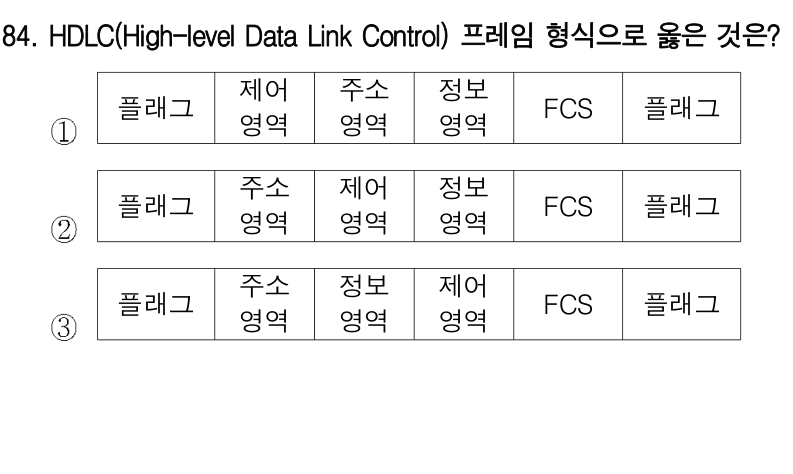
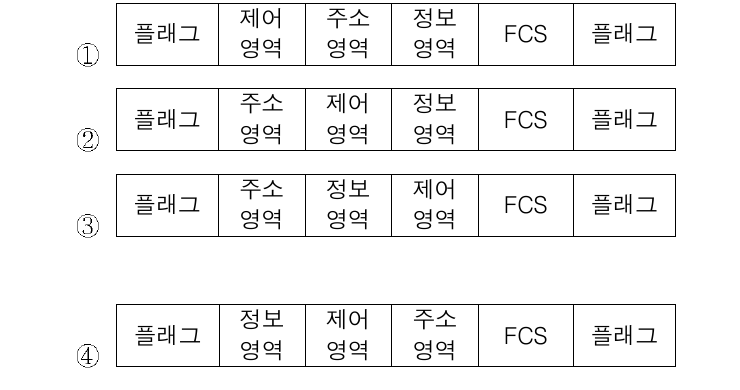
2016-1 원본 정합성 검수 반영

diff --git a/정보처리기사CBT_지침체계/08_운영기록/검수보고_2026-07-26_2016-1_100문항_원본정합성검수.md b/정보처리기사CBT_지침체계/08_운영기록/검수보고_2026-07-26_2016-1_100문항_원본정합성검수.md
@@ -1,0 +1,123 @@
+# 검수보고_2026-07-26_2016-1_100문항_원본정합성검수
+
+## 1. 검수 목적
+
+2단계 원본 데이터 정합성 확보의 두 번째 파일 단위 작업으로 `data/exam_2016-1.json` 100문항을 보유 PDF와 전수 대조했다.
+
+기존 `pdf_compare_score_report.txt`에서 이 회차의 이미지·표 최종 점수는 86.0점으로 2016~2017년 6회차 중 가장 낮았다. 또한 PDF 인쇄번호와 JSON `qnum`이 다르다는 기존 판례가 있어 다음 고위험 단위로 선정했다.
+
+이번 보고서는 `exam_2016-1.json` 한 파일의 검수 완료를 뜻하며, 전체 3,568문항의 2단계 완료를 뜻하지 않는다.
+
+## 2. 직접 원본과 검수 방법
+
+- 직접 원본: `정보처리기사 문제/2016년1회_정보처리기사_필기_기출문제.pdf`
+- 데이터: `data/exam_2016-1.json`
+- 자료: `public/images/2016-1_q*.png`
+
+PDF는 B형이고 JSON은 다른 문제 순서를 사용하므로 같은 번호끼리 비교하지 않았다. 1~7쪽을 200DPI로 렌더하고 Apple Vision OCR 결과와 PDF 텍스트를 보조 자료로 사용한 뒤, `stem` 핵심 문구로 100문항을 일대일 대응시켰다. 원문·보기·공식 정답표·그림·표는 렌더한 PDF 1~8쪽을 직접 확인했다.
+
+## 3. PDF 인쇄번호와 JSON qnum 대응
+
+문장 기반 대응은 100/100 성공했고 PDF 문제번호도 1~100이 한 번씩만 사용됐다.
+
+```text
+JSON  1~20 → PDF 16,3,4,12,10,2,14,5,13,19,15,7,8,1,11,20,17,9,6,18
+JSON 21~40 → PDF 37,35,40,39,31,22,26,21,29,33,25,23,34,32,38,30,36,24,28,27
+JSON 41~60 → PDF 45,43,55,57,42,56,53,47,52,54,51,49,44,58,41,60,59,50,48,46
+JSON 61~80 → PDF 62,74,73,72,64,67,70,66,76,63,80,69,71,75,68,65,61,78,77,79
+JSON 81~100 → PDF 81,98,93,87,83,82,90,96,95,88,84,89,100,94,91,92,99,85,97,86
+```
+
+따라서 예를 들어 JSON Q71의 직접 원본은 PDF 인쇄번호 Q80이고, JSON Q91의 직접 원본은 PDF 인쇄번호 Q84다.
+
+## 4. 발견된 오류
+
+### 4.1 공식 복수정답 누락
+
+PDF 정답표는 인쇄번호 Q80에 `②·④`를 함께 표시한다. 이 문항은 JSON Q71에 대응하지만 기존 `answer`는 `2` 하나뿐이었다.
+
+- 변경 전: `answer: 2`
+- 변경 후: `answer: [2, 4]`
+- 해설: Spiral Model과 Prototype Model이 각각 인정되는 근거와 단일정답 유사 문제 구별법을 반영
+
+문장 대응 후 공식 정답표를 적용한 결과, 이 1건을 고친 뒤 100/100이 일치했다.
+
+### 4.2 풀이 필수 표 누락
+
+JSON Q45는 PDF 인쇄번호 Q42의 First-Fit 문제다. 기존 JSON에는 `영역 1~4` 보기만 있고 문제 풀이에 필요한 영역 크기 `9K·15K·10K·30K`가 없었다.
+
+- HTML `table` 필드로 네 영역의 크기를 복원
+- 해설에 각 영역 값과 영역 2를 처음 선택하는 과정을 반영
+
+### 4.3 잘린 HDLC 보기
+
+JSON Q91의 기존 이미지에는 PDF 인쇄번호 Q84의 보기 ①~③만 있었고, 다음 열에 이어진 보기 ④가 잘려 있었다.
+
+- `public/images/2016-1_q91.png`를 원본 PDF에서 다시 추출
+- 보기 ①~④를 한 이미지에 순서대로 배치
+- JSON 번호와 혼동되는 PDF 인쇄번호 `84.`와 인접 Q85는 제외
+
+### 4.4 원문·보기 전사 오류
+
+총 53문항의 77개 필드를 원본과 맞췄다.
+
+| 필드 | 변경 문항 수 | 대표 사례 |
+|---|---:|---|
+| `stem` | 42 | Q23 `갈이→길이`, Q28 `PLA→PIA`, Q53 `프로세서→프로세스`, Q71 `부석→분석`, Q74 `동적→동작`, Q79 `요민→요인`, Q80 `요구상항→요구사항`, Q89 `FIS→FCS` |
+| `options` | 27 | Q28 `PLA/PAL`, `LPGA/FPGA`; Q59 `INODE LIST→INODE BLOCK`; 중복 글자·띄어쓰기·대소문자 복원 |
+| `answer` | 1 | Q71 `2→[2,4]` |
+| `table` | 1 | Q45 영역 크기 표 추가 |
+| `explanation` | 6 | Q43·45·55·59·71·84의 원문·정답·용어 변경 연동 |
+
+설명 내용을 새 문제로 각색하지 않았고, PDF에서 확인된 원문·보기·정답과 그에 직접 연결되는 해설만 수정했다.
+
+## 5. 이미지·표 연결 결과
+
+| JSON 문항 | PDF 인쇄번호 | 자료 | 결과 |
+|---:|---:|---|---|
+| Q5 | Q10 | 후위 순회 트리 | 일치 |
+| Q20 | Q18 | 트리 차수 그림 | 일치 |
+| Q26 | Q22 | 메모리 IC 그림 | 일치 |
+| Q36 | Q30 | 디코더 회로 | 일치 |
+| Q45 | Q42 | 영역 크기 표 | 누락 복원 |
+| Q51 | Q51 | 고정 분할 표 | 일치 |
+| Q91 | Q84 | HDLC 네 보기 | 보기 ④ 누락 복원 |
+
+이번 추가로 Q45는 `table`만 사용하고 Q91은 `image`만 사용한다. 따라서 승인된 `image`+`table` 복합 자료 4문항 목록에는 변화가 없다.
+
+## 6. 검증 결과
+
+| 검사 | 결과 |
+|---|---|
+| 2016-1 문장 기반 PDF 대응 | 100/100, 일대일 대응 |
+| PDF 공식 정답 | 100/100 일치 |
+| qnum | 100개, 중복 0, 누락 0 |
+| 동일 stem 중복 | 0건 |
+| JSON 파싱·필수 필드·타입 | 전체 34개 파일·3,568문항, 오류 0건 |
+| 정답 배열 | 전체 9건, 범위·중복 오류 0건 |
+| 이미지 경로 | 전체 109건, 결손 0건 |
+| HTML 표 | 전체 60건, 형식 오류 0건 |
+| 복합 자료 승인 목록 | 기존 4건과 정확히 일치 |
+| 보기 셔플 | 3,568문항 × 24순열 = 85,632건, 오류 0건 |
+| JavaScript 문법 | `server/*.js`, `public/js/*.js` 오류 0건 |
+| 로컬 API | 회차 29·유형 5, 2016-1 100문항 로딩 정상 |
+| Q45 표 API | 9K·15K·10K·30K 전달 확인 |
+| Q71 채점 | 2·4는 정답, 1은 오답으로 처리 |
+| Q91 정적 이미지 | PNG 정상, HTTP 200 |
+| 공백·충돌 표식 | `git diff --check` 통과 |
+
+브라우저 실행 환경이 없어 실제 화면 클릭과 시각 회귀 검사는 수행하지 못했다. PDF 렌더, 최종 이미지, API, 채점은 확인했지만 앱 화면에서 Q45 표와 Q91 이미지가 보이는지는 `확인 필요`로 남긴다.
+
+## 7. 판정
+
+- `exam_2016-1.json` 원문·보기·정답·자료 전수 대조: **완료**
+- 공식 정답: **100/100 일치**
+- 중복·누락·다른 회차 혼입: **0건**
+- JSON·API·이미지·셔플 검사: **통과**
+- 브라우저 실제 화면 검사: **확인 필요**
+- 전체 2단계: **진행 중**
+- 커밋·푸시·배포: **미수행**
+
+## 8. 다음 검증 단위
+
+다음 파일은 `exam_2016-3.json`을 우선 제안한다. 기존 비교 보고서에 PDF 메모리 블록의 정확한 K 값을 다시 확인해야 하는 잔여 권고가 있고, 최종 점수도 92.4점으로 낮은 편이므로 문제 순서 보정, 원문·정답, 풀이 필수 자료를 같은 방식으로 전수 대조한다.

diff --git a/정보처리기사CBT_지침체계/08_운영기록/changelog.md b/정보처리기사CBT_지침체계/08_운영기록/changelog.md
@@ -93,3 +93,4 @@
 | 2026-07-26 | 프로덕션 배포 | Vercel 프로덕션 배포 완료, 버전 `26-07-26-1`, 운영 별칭 `https://jeongbo-cbt.vercel.app`과 `/version.json`·API 응답·오류 로그 확인 | 사용자 요청("배포 후 2단계 진행")의 선행 배포 | — |
 | 2026-07-26 | data/category_calc·code·keyword.json, public/images 유형별 전용 5건, 검수보고, 판례_010·결정례_2026헌가12·14 | Git 이력으로 재대조 대상을 19가 아닌 17문항으로 확정하고 각 유형별 PDF와 직접 대조. calc Q1·Q15, keyword Q198 원본 불일치와 calc Q15 해설 계산 오류를 정정하고, 회차 번호가 보이던 이미지 5개를 유형별 전용 이미지로 교체. 정답 17/17·전체 JSON·API·이미지 경로 검사 통과, 브라우저 화면 검사는 실행 환경 부재로 확인 필요 | 2단계 원본 데이터 정합성 확보의 첫 검증 단위 실행 | 검수보고_2026-07-26_category_17문항_독립원본재대조, 결정례_2026헌가14 |
 | 2026-07-26 | GitHub main·Vercel 프로덕션 | 승인된 지침·데이터·미디어 변경을 커밋 `f425cd3`으로 `origin/main`에 푸시하고 버전 `26-07-26-2`로 자동 프로덕션 배포. 운영 API에서 회차 29·유형 5, 일반 모드 정답·해설 비노출, calc Q1·Q13·Q15, code Q46 복합 자료와 새 이미지 7건을 재검증해 오류 0건 확인 | 사용자 지시("제안대로 진행")에 따른 커밋·푸시·재배포 이행 | 결정례_2026헌가14 |
+| 2026-07-26 | data/exam_2016-1.json, public/images/2016-1_q91.png, 08_운영기록/검수보고 | 2016년 1회 100문항을 B형 PDF와 `stem` 기반으로 전수 매핑해 원문·보기 53문항을 정정하고, JSON Q71의 공식 복수정답 `[2,4]`, Q45 First-Fit 영역 크기 표, Q91 HDLC 보기 ④ 누락을 복원. 공식 정답 100/100·전체 JSON·85,632건 셔플·API 채점 통과, 브라우저 화면 검사는 환경 부재로 확인 필요 | 2단계 원본 데이터 정합성 확보의 두 번째 파일 단위 실행. PDF 인쇄번호와 JSON qnum이 다른 회차를 번호가 아닌 문장으로 대조 | 검수보고_2026-07-26_2016-1_100문항_원본정합성검수, 판례_012 계열 |
